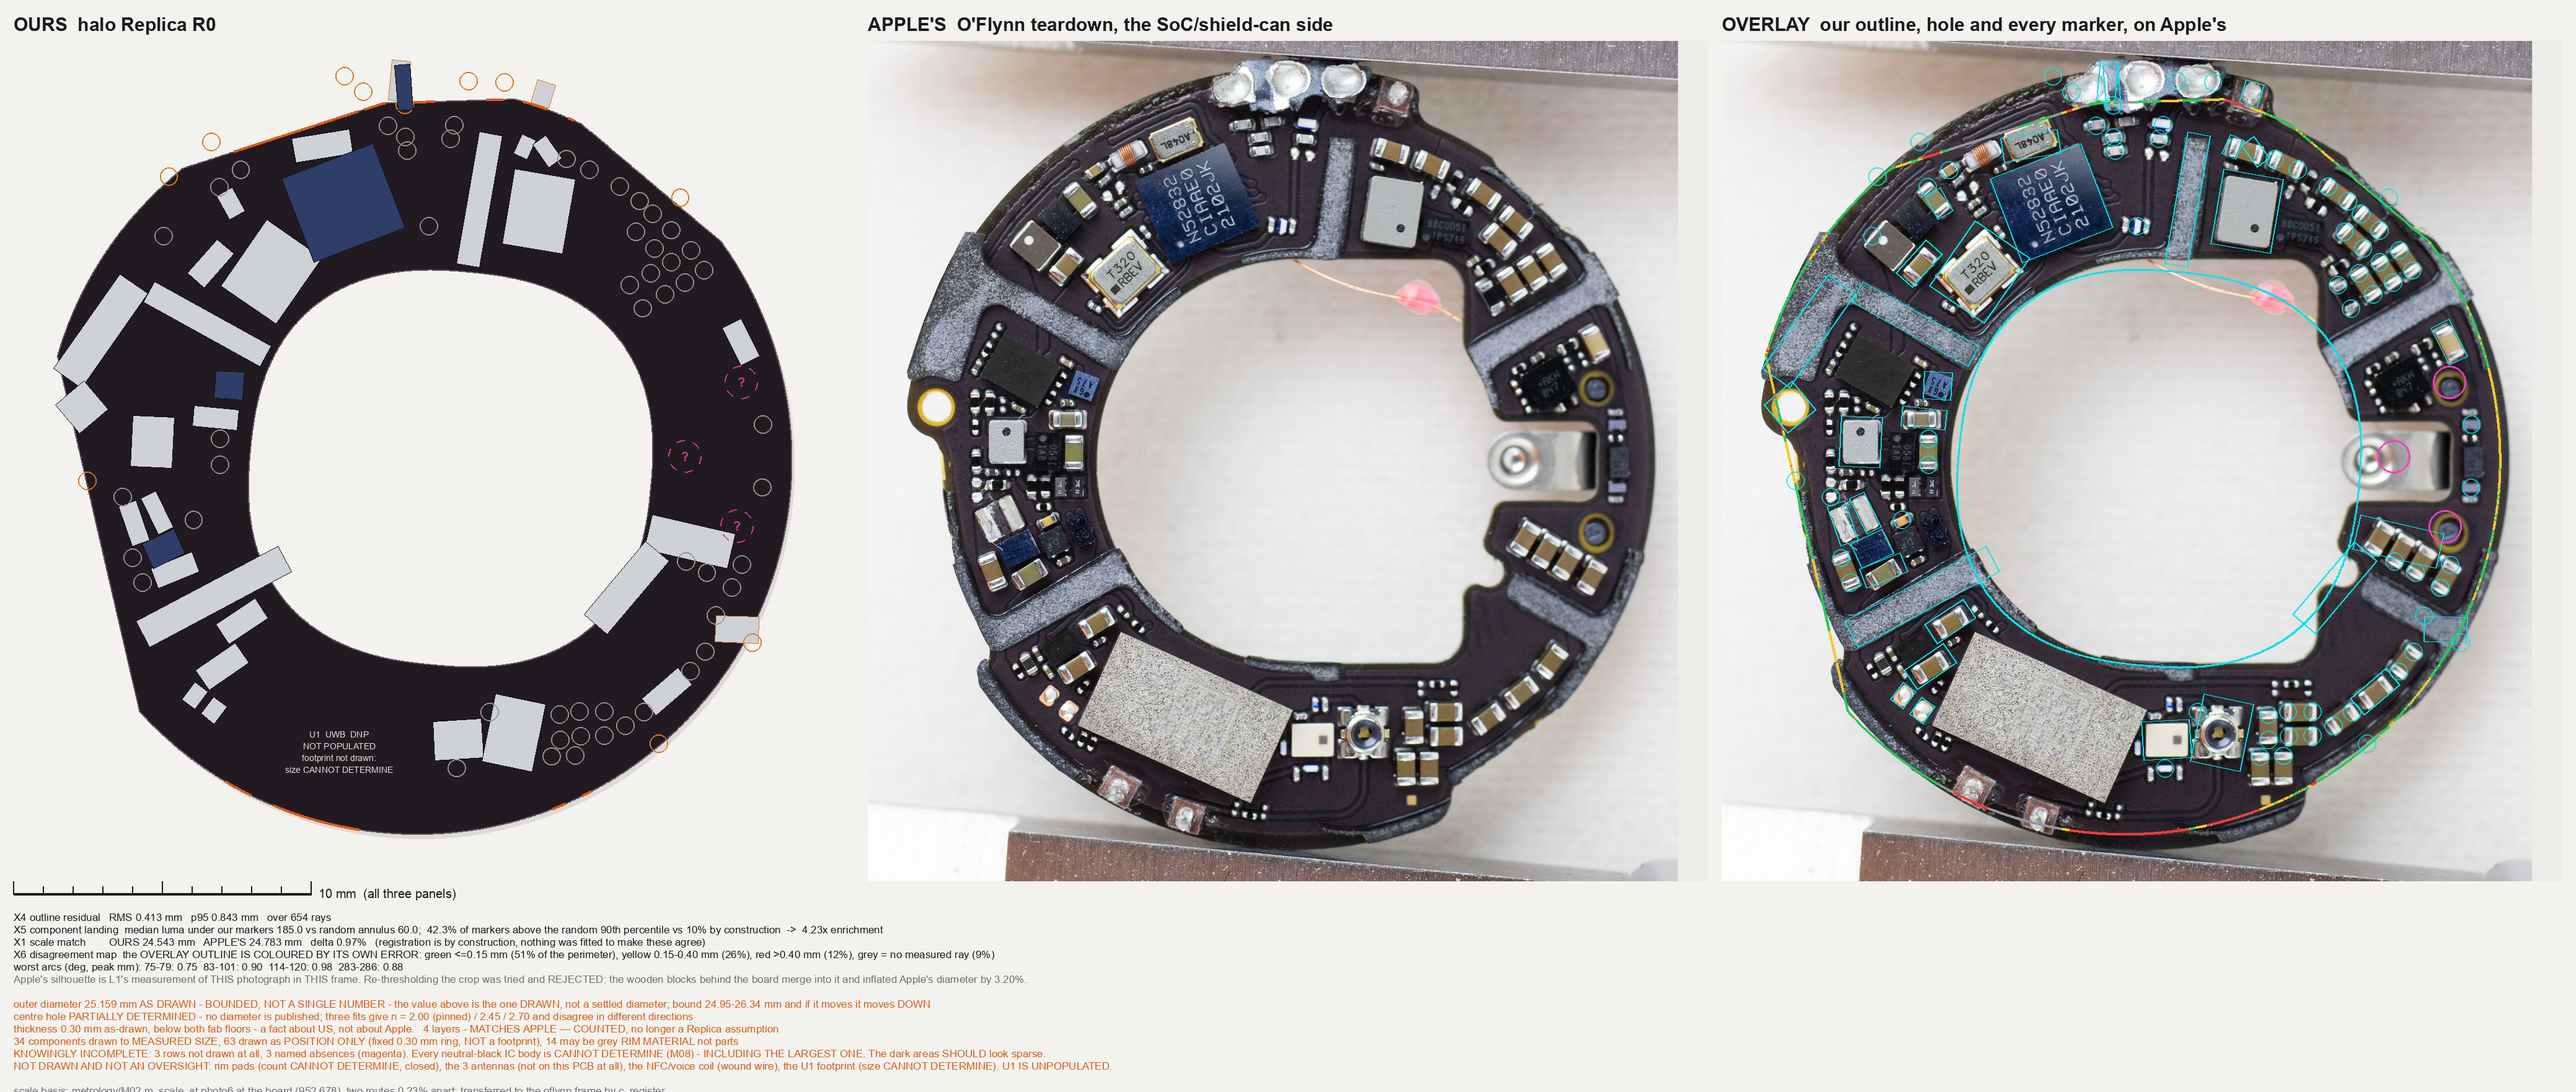
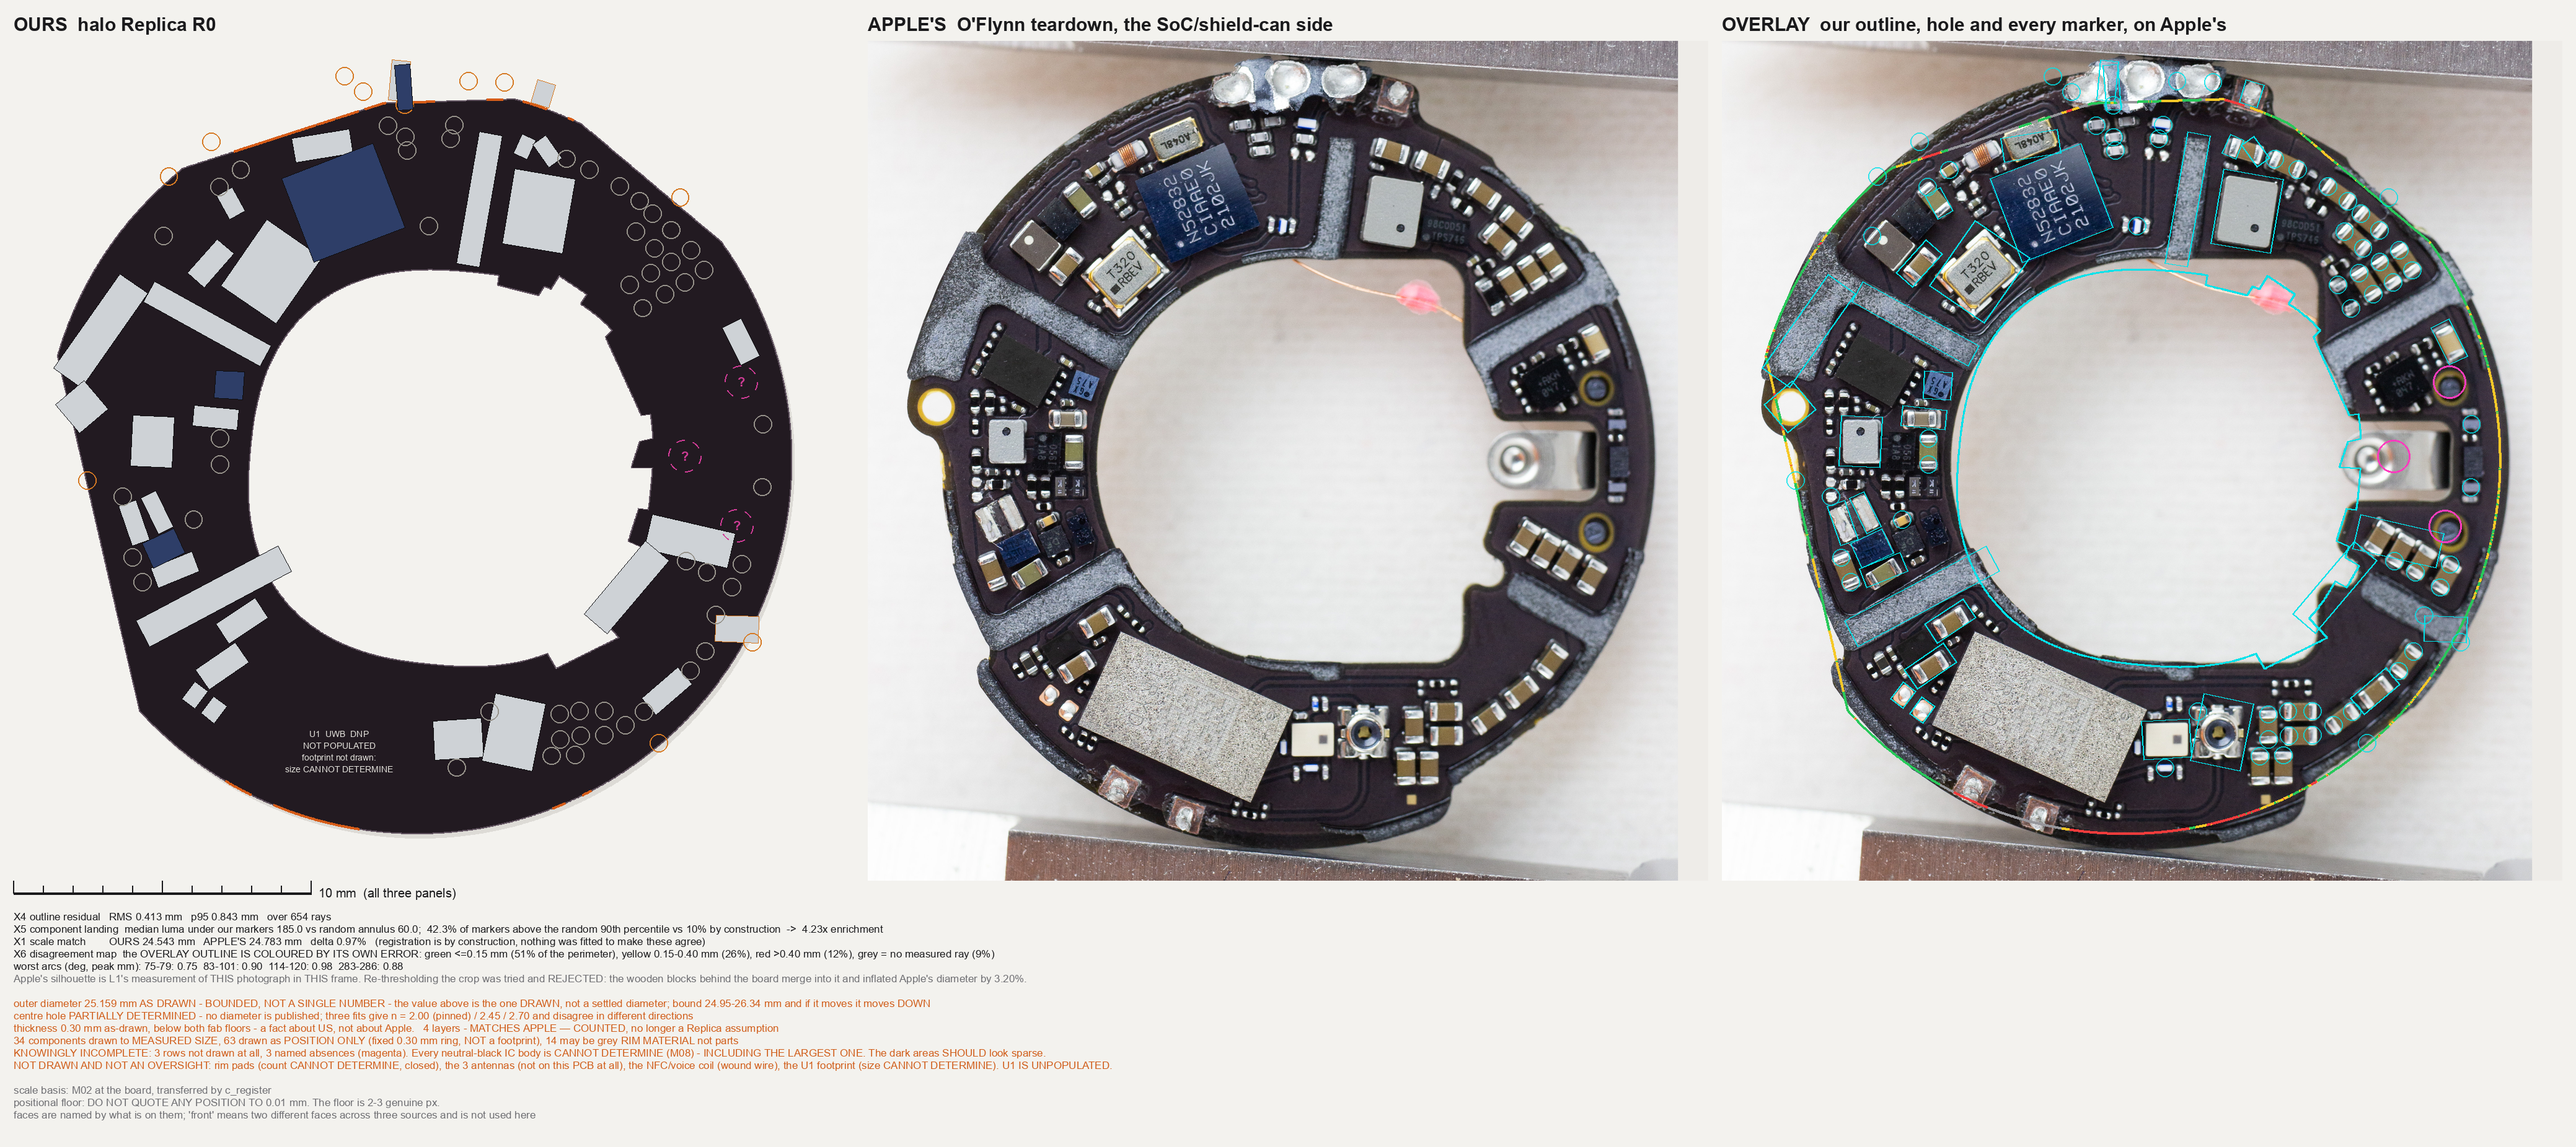
L5b: the centre hole is a ROUNDED POLYGON, not a smooth superellipse - 7 measured facets, and the H3 floor had to be rebuilt twice before it meant anything
Straight lines fit large arcs of the hole boundary far better than the fitted
superellipse does, so the hole is drawn as superellipse + explicit straight facets:
arcs and straights, a routed pocket, dimensionable.

  superellipse alone   resid sd 0.3342 mm
  + 7 admitted facets  resid sd 0.1987 mm   (40.53 pct better)

The 7, each admitted only on INLIER SEPARATION, never on residual alone:
  outward   25.8- 32.6 deg  offset 7.467 mm  line inl 0.86 vs superellipse 0.00
  outward   45.2- 62.3 deg  offset 7.618 mm  line inl 0.47 vs 0.00
  outward  299.4-308.2 deg  offset 7.405 mm  line inl 0.93 vs 0.00
  inward    12.1- 22.4 deg  offset 6.424 mm  line inl 1.00 vs 0.00
  inward   284.0-297.1 deg  offset 6.362 mm  line inl 1.00 vs 0.00
  inward   319.7-344.7 deg  offset 6.558 mm  line inl 1.00 vs 0.00
  inward   351.9-359.9 deg  offset 5.746 mm  line inl 1.00 vs 0.00
REFUSED: 127.6-155.2 deg, where the superellipse beats the line (0.0296 vs 0.0611).

H3, THE CONTROL, AND IT WAS WRONG TWICE AND I KEPT BOTH FAILURES.
Seven facets are fourteen extra parameters, so the same detector is run on a
SYNTHETIC PURE SUPERELLIPSE carrying the same angular sampling and the same noise;
whatever it finds there is fabricated and whatever that fabrication buys is the
floor. First version built its synthetic points in the wrong frame and returned a
floor of -3836 pct. A control that returns a nonsense number is not a control, so
[…]

diff --git a/electronics/halo_replica/tools/p_fit.py b/electronics/halo_replica/tools/p_fit.py
@@ -248,6 +248,94 @@ def _ci_resid(p, P):
     return np.hypot(P[:, 0] - p[0], P[:, 1] - p[1]) - p[2]
 
 
+def _hole_resid(P, cx, cy, a, b, n, phi):
+    dx, dy = P[:, 0] - cx, P[:, 1] - cy
+    c, s = math.cos(phi), math.sin(phi)
+    u = (c * dx + s * dy) / a
+    v = (-s * dx + c * dy) / b
+    f = (np.abs(u) ** n + np.abs(v) ** n) ** (1.0 / n)
+    return (f - 1.0) * np.hypot(dx, dy), np.degrees(np.arctan2(dy, dx)) % 360.0
+
+
+def find_facets(P, cx, cy, a, b, n, phi, ppm, depth_mm=0.30):
+    """The hole is not a smooth curve: straight FACETS fit parts of it far better than
+    the superellipse does.  Same admission rule as the outer chords -- a facet is
+    admitted only if a line separates from the superellipse on INLIER FRACTION, not
+    merely on residual.
+    Returns facets as {normal_deg, offset_mm} in the hole's own centre frame.
+    """
+    res_px, th = _hole_resid(P, cx, cy, a, b, n, phi)
+    o = np.argsort(th)
+    th, res, Q = th[o], res_px[o] / ppm, P[o]
+    out, refused = [], []
+    for sign in (+1, -1):
+        for i, j in _runs(sign * res > depth_mm, th):
+            px, py = Q[i:j + 1, 0] - cx, Q[i:j + 1, 1] - cy
+            mx, my = px.mean(), py.mean()
+            u = np.c_[px - mx, py - my]
+            _, _, V = np.linalg.svd(u, full_matrices=False)
+            dv = V[0]
+            nv = np.array([-dv[1], dv[0]])
+            off = mx * nv[0] + my * nv[1]
+            if off < 0:
+                nv, off = -nv, -off
+            lres = u @ nv
+            line_sd = float(lres.std()) / ppm
+            line_in = float((np.abs(lres) / ppm < INLIER_MM).mean())
+            se_sd = float(res[i:j + 1].std())
+            se_in = float((np.abs(res[i:j + 1]) < INLIER_MM).mean())
+            row = dict(arc_deg=[float(th[i]), float(th[j])], n_pts=int(j - i + 1),
+                       normal_deg=float(math.degrees(math.atan2(nv[1], nv[0])) % 360.0),
+                       offset_mm=float(off / ppm),
+                       direction=("outward" if sign > 0 else "inward"),
+                       line_resid_sd_mm=line_sd, line_inlier_frac=line_in,
+                       superellipse_resid_sd_mm_here=se_sd,
+                       superellipse_inlier_frac_here=se_in)
+            # A straight edge can only BE the boundary within ~90 deg of its own
+            # normal -- d/cos(theta-normal) diverges at 90. A line fitted to a short
+            # noisy arc comes out nearly TANGENTIAL, and applying it then throws the
+            # radius to infinity inside its own arc. That is exactly how the H3 floor
+            # first came back at -221%: the detector was fabricating tangential facets
+            # on a pure superellipse and they made the fit catastrophically worse.
+            devs = np.abs(((th[i:j + 1] - row["normal_deg"] + 180) % 360) - 180)
+            row["max_arc_to_normal_deg"] = float(devs.max())
+            geometric_ok = devs.max() < 60.0
+            if geometric_ok and line_sd < se_sd and line_in > se_in + 0.25:
+                out.append(row)
+            else:
+                row["why_refused"] = (
+                    ("this line is nearly TANGENTIAL to its own arc "
+                     f"({devs.max():.1f} deg from its normal, limit 60) -- a straight "
+                     "edge cannot be the boundary that far from its normal"
+                     if not geometric_ok else
+                     f"line sd {line_sd:.4f} vs superellipse {se_sd:.4f} mm, inlier "
+                     f"{line_in:.3f} vs {se_in:.3f} -- no separation, so this is the "
+                     "extra parameters talking and not a facet"))
+                refused.append(row)
+    return out, refused
+
+
+def hole_r(theta_deg, a, b, n, phi_deg, facets):
+    """r(theta) of the superellipse, overridden on each admitted facet arc by that
+    facet's straight line.  Arcs and straights: a routed pocket, dimensionable."""
+    t = np.deg2rad(np.asarray(theta_deg, float))
+    ph = math.radians(phi_deg)
+    c, s = math.cos(ph), math.sin(ph)
+    ct, st = np.cos(t), np.sin(t)
+    u = (c * ct + s * st) / a
+    v = (-s * ct + c * st) / b
+    r = (np.abs(u) ** n + np.abs(v) ** n) ** (-1.0 / n)
+    for f in facets:
+        fn = math.radians(f["normal_deg"])
+        den = math.cos(fn) * ct + math.sin(fn) * st
+        a0, a1 = f["arc_deg"]
+        m = (((np.asarray(theta_deg) - a0) % 360.0) <= ((a1 - a0) % 360.0))
+        with np.errstate(divide="ignore", invalid="ignore"):
+            rl = np.where(den > 1e-9, f["offset_mm"] / den, np.nan)
+        r = np.where(m & np.isfinite(rl), rl, r)
+    return r
+
+
 def fit_hole(P, ppm):
     """Superellipse AND circle, both fitted, both reported.
 
@@ -278,6 +366,40 @@ def fit_hole(P, ppm):
     floor = 1.0 - float(_se_resid(se2.x, Q).std()) / float(_ci_resid(ci2.x, Q).std())
 
     pinned = [abs(se.x[i] - lo[i]) < 1e-6 or abs(se.x[i] - hi[i]) < 1e-6 for i in range(6)]
+
+    # ---- FACETS, and H3: the floor that keeps them honest.
+    cx0, cy0, aa, bb, nn, pp = se.x
+    facets, refused = find_facets(P, cx0, cy0, aa, bb, nn, pp, ppm)
+    res0, th0 = _hole_resid(P, cx0, cy0, aa, bb, nn, pp)
+    sd_se = float(res0.std()) / ppm
+    rfit = hole_r(th0, aa / ppm, bb / ppm, nn, math.degrees(pp) % 360.0,
+                  [dict(f) for f in facets])
+    rmeas = np.hypot(P[:, 0] - cx0, P[:, 1] - cy0) / ppm
+    sd_fac = float((rfit - rmeas).std())
+
+    # H3 floor: the SAME detector on a synthetic PURE superellipse carrying the same
+    # angular sampling and the same noise. Whatever it "finds" there is fabricated, and
+    # whatever residual drop that fabrication buys is the floor the real drop must clear.
+    # (The first version of this control built its synthetic points in the wrong frame
+    # and returned a floor of -3836%. A control that returns a nonsense number is not a
+    # control; it was rebuilt to generate points ON the fitted curve at the MEASURED
+    # angles, which is checkable: with zero noise its own residual must be ~0.)
+    rng2 = np.random.default_rng(23)
+    a_mm, b_mm, phi_d = aa / ppm, bb / ppm, math.degrees(pp) % 360.0
+    r_true = hole_r(th0, a_mm, b_mm, nn, phi_d, []) * ppm
+    zero_chk = float(np.abs(np.hypot(
+        (cx0 + r_true * np.cos(np.deg2rad(th0))) - cx0,
+        (cy0 + r_true * np.sin(np.deg2rad(th0))) - cy0) - r_true).max())
+    r_syn = r_true + rng2.normal(0, sd_se * ppm, len(th0))
+    Psyn = np.c_[cx0 + r_syn * np.cos(np.deg2rad(th0)),
+                 cy0 + r_syn * np.sin(np.deg2rad(th0))]
+    fsyn, _ = find_facets(Psyn, cx0, cy0, aa, bb, nn, pp, ppm)
+    sd_s0 = float((np.hypot(Psyn[:, 0] - cx0, Psyn[:, 1] - cy0) - r_true).std()) / ppm
+    rfs = hole_r(th0, a_mm, b_mm, nn, phi_d, [dict(f) for f in fsyn])
+    sd_s1 = float((rfs - np.hypot(Psyn[:, 0] - cx0, Psyn[:, 1] - cy0) / ppm).std())
+    floor3 = 1.0 - sd_s1 / sd_s0 if sd_s0 else 0.0
+    gain3 = 1.0 - sd_fac / sd_se if sd_se else 0.0
+
     return dict(
         centre_px=[float(se.x[0]), float(se.x[1])],
         two_a_mm=float(2 * se.x[2] / ppm), two_b_mm=float(2 * se.x[3] / ppm),
@@ -288,6 +410,17 @@ def fit_hole(P, ppm):
         circle_alternative_resid_sd_mm=ci_sd,
         improvement_frac=float(real_gain),
         H2_improvement_floor_from_parameter_count=float(floor),
+        facets=facets, facets_refused=refused,
+        facet_resid_sd_mm=sd_fac,
+        superellipse_only_resid_sd_mm=sd_se,
+        H3_facet_improvement_frac=float(gain3),
+        H3_floor_from_fabricated_facets=float(floor3),
+        H3_facets_fabricated_on_a_pure_superellipse=len(fsyn),
+        H3_synthetic_generator_zero_noise_error_px=float(zero_chk),
+        H3_synthetic_resid_sd_mm=float(sd_s0),
+        H3_verdict=("EARNED" if (gain3 > 2.0 * floor3 and gain3 > 0.05) else
+                    "NOT EARNED -- the facets do not beat what the same detector "
+                    "fabricates on a shape that has none"),
         H2_verdict=("EARNED" if real_gain > 2.0 * max(floor, 1e-6) else
                     "NOT EARNED -- the superellipse's advantage over a circle is not "
                     "clearly larger than what two extra parameters buy on a pure circle"),
@@ -466,6 +599,19 @@ def main():
         f"phi {hf['phi_deg']:.2f} deg  resid sd {hf['superellipse_resid_sd_mm']:.4f} mm")
     say(f"  circle alternative R {hf['circle_alternative_R_mm']:.4f} mm  "
         f"resid sd {hf['circle_alternative_resid_sd_mm']:.4f} mm")
+    say(f"  facets: {len(hf['facets'])} admitted, {len(hf['facets_refused'])} refused; "
+        f"resid sd {hf['superellipse_only_resid_sd_mm']:.4f} -> "
+        f"{hf['facet_resid_sd_mm']:.4f} mm")
+    for f in hf["facets"]:
+        say(f"    {f['direction']:7s} {f['arc_deg'][0]:6.1f}-{f['arc_deg'][1]:6.1f} deg  "
+            f"offset {f['offset_mm']:.3f} mm  normal {f['normal_deg']:.1f} deg  "
+            f"line sd {f['line_resid_sd_mm']:.4f}/inl {f['line_inlier_frac']:.2f} vs "
+            f"SE {f['superellipse_resid_sd_mm_here']:.4f}/inl "
+            f"{f['superellipse_inlier_frac_here']:.2f}")
+    say(f"  H3: facets buy {hf['H3_facet_improvement_frac']*100:.2f}% vs a floor of "
+        f"{hf['H3_floor_from_fabricated_facets']*100:.2f}% "
+        f"({hf['H3_facets_fabricated_on_a_pure_superellipse']} facets fabricated on a "
+        f"PURE superellipse) -> {hf['H3_verdict']}")
     say(f"  H2: real improvement {hf['improvement_frac']*100:.2f}% vs "
         f"parameter-count floor {hf['H2_improvement_floor_from_parameter_count']*100:.2f}% "
         f"-> {hf['H2_verdict']}")

diff --git a/electronics/halo_replica/tools/p_render.py b/electronics/halo_replica/tools/p_render.py
@@ -106,7 +106,10 @@ def outer_poly(fit, n=2880):
 
 
 def hole_poly(fit, n=1440):
-    """The superellipse hole, in mm, relative to the BOARD centre."""
+    """The hole, in mm, relative to the BOARD centre: a superellipse with 7 measured
+    straight FACETS overriding it on their own arcs. Arcs and straights - a routed
+    pocket, dimensionable. The facets cut the residual 0.334 -> 0.199 mm against a
+    fabrication floor of -0.31% (see the fit file's H3 control)."""
     i = fit["inner"]
     ppm = fit["scale"]["px_per_mm"]
     ox, oy = fit["frame"]["origin_px"]
@@ -114,13 +117,21 @@ def hole_poly(fit, n=1440):
     cy = (i["centre_px"][1] - oy) / ppm
     a, b, e = i["two_a_mm"] / 2.0, i["two_b_mm"] / 2.0, i["n"]
     phi = math.radians(i["phi_deg"])
-    t = np.linspace(0, 2 * math.pi, n, endpoint=False)
+    th = np.arange(n) * 360.0 / n
+    t = np.deg2rad(th)
     ct, st = np.cos(t), np.sin(t)
-    u = np.sign(ct) * np.abs(ct) ** (2.0 / e) * a
-    v = np.sign(st) * np.abs(st) ** (2.0 / e) * b
-    x = cx + u * math.cos(phi) - v * math.sin(phi)
-    y = cy + u * math.sin(phi) + v * math.cos(phi)
-    return list(zip(x, y))
+    u = (math.cos(phi) * ct + math.sin(phi) * st) / a
+    v = (-math.sin(phi) * ct + math.cos(phi) * st) / b
+    r = (np.abs(u) ** e + np.abs(v) ** e) ** (-1.0 / e)
+    for f in i.get("facets", []):
+        fn = math.radians(f["normal_deg"])
+        den = math.cos(fn) * ct + math.sin(fn) * st
+        a0, a1 = f["arc_deg"]
+        m = ((th - a0) % 360.0) <= ((a1 - a0) % 360.0)
+        with np.errstate(divide="ignore", invalid="ignore"):
+            rl = np.where(den > 1e-9, f["offset_mm"] / den, np.nan)
+        r = np.where(m & np.isfinite(rl), rl, r)
+    return list(zip(cx + r * ct, cy + r * st))
 
 
 # ---------------------------------------------------------------- components

diff --git a/electronics/halo_replica/tools/p_compare.py b/electronics/halo_replica/tools/p_compare.py
@@ -345,7 +345,7 @@ def main():
             ("OVERLAY  our outline, hole and every marker, on Apple's", ov)]
     cw, ch = ph.size
     head, gap = 66, 22
-    foot = 340
+    foot = 430
     W, H = 3 * cw + 4 * gap, head + ch + foot
     m = Image.new("RGB", (W, H), BG)
     dm = ImageDraw.Draw(m, "RGBA")
